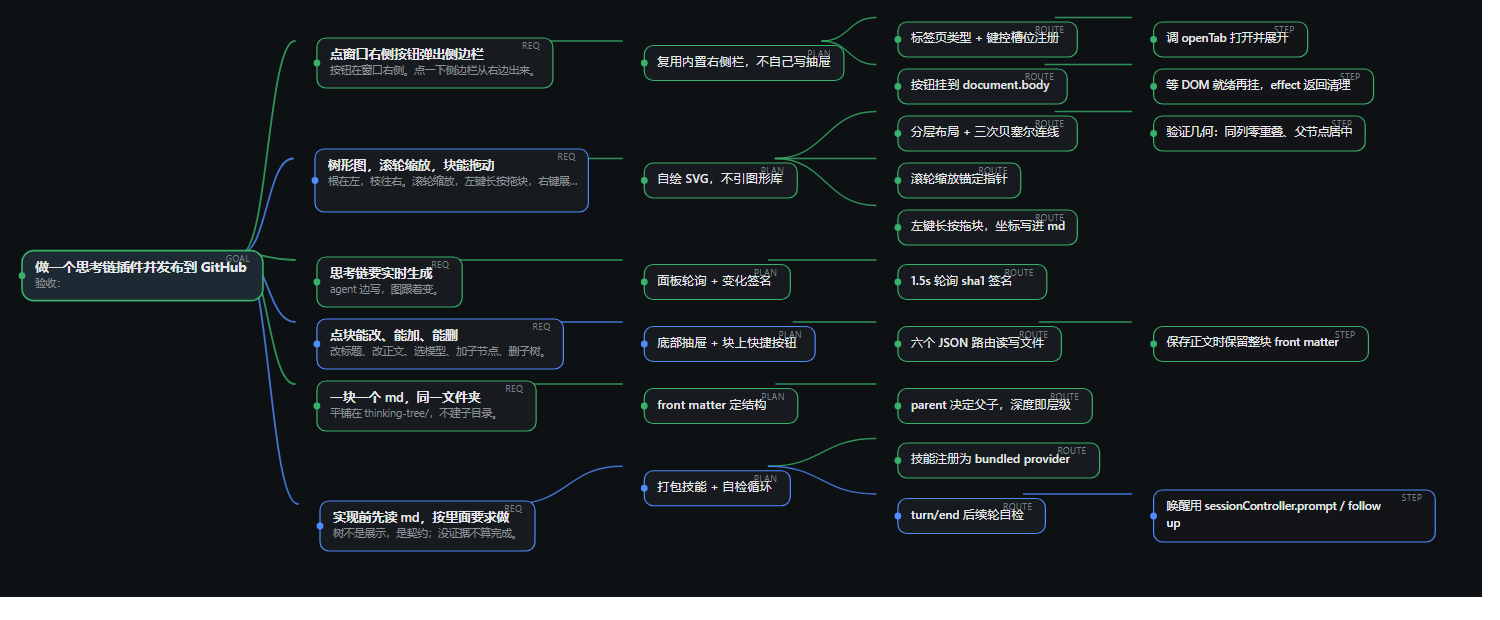
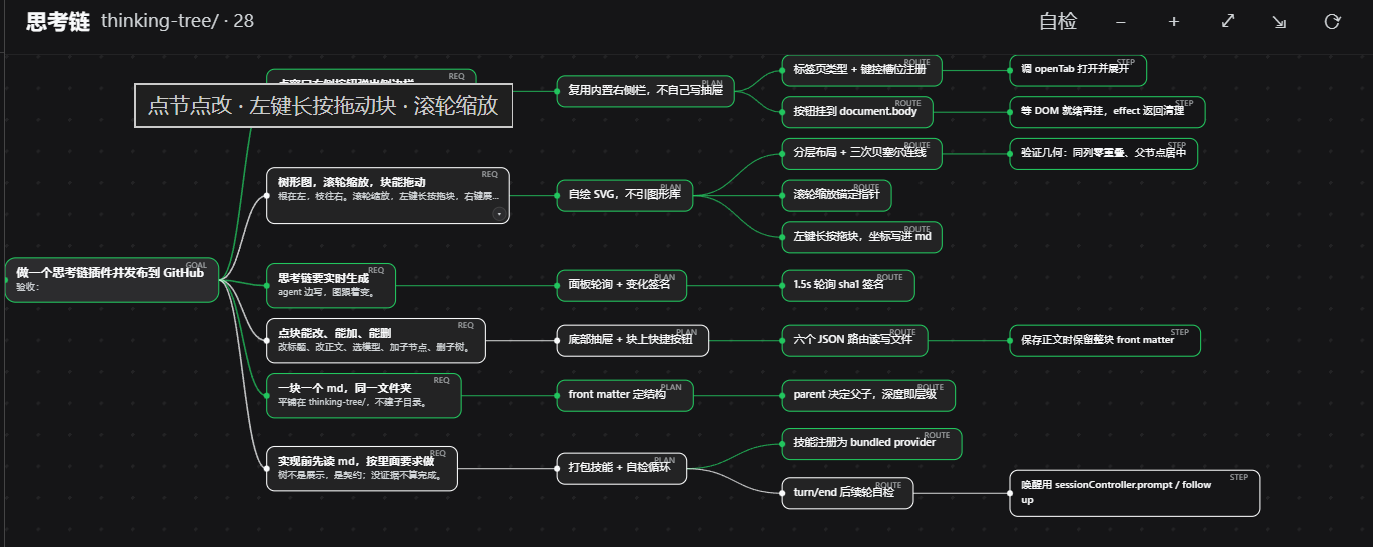
docs: use the real panel screenshot as the preview; add the api and layout test suites

Changed region(s): [[0.0, 0.0, 0.9177, 0.9324], [0.0, 0.0, 1.0, 1.0], [0.0, 0.0, 0.1835, 0.0622]]

diff --git a/index.js b/index.js
@@ -123,6 +123,9 @@ export function apply(ctx) {
  * @returns the flat node list, whether the folder exists, and a change signature.
  */
 export { folderOf, parseFrontMatter, readTree, safeName, shapeTree, writeField }
+export {
+  serveArrange, serveCreate, serveDelete, serveModel, servePosition, serveSave, serveSelfCheck, serveStatus, serveTitle, serveTree,
+}
 
 /**
  * Resolve the workspace root of one Session.

diff --git a/README.md b/README.md
@@ -6,7 +6,7 @@ English | [中文](README.zh.md)
 
 ![icon](icon.svg)
 
-![A five-tier thinking tree: goal, requirements, plans, routes and steps, joined by curved links](docs/preview.png)
+![The thinking-tree panel: the goal on the left, requirements, plans, routes and steps branching right, joined by curved links](docs/preview.png)
 
 ## What it looks like
 

diff --git a/README.zh.md b/README.zh.md
@@ -6,7 +6,7 @@
 
 ![icon](icon.svg)
 
-![五层思考链：目标、要求、方案、技术路线、步骤，用曲线连接](docs/preview.png)
+![思考链面板：左边是目标，往右依次是要求、方案、技术路线、步骤，用曲线连接](docs/preview.png)
 
 ## 长什么样
 
